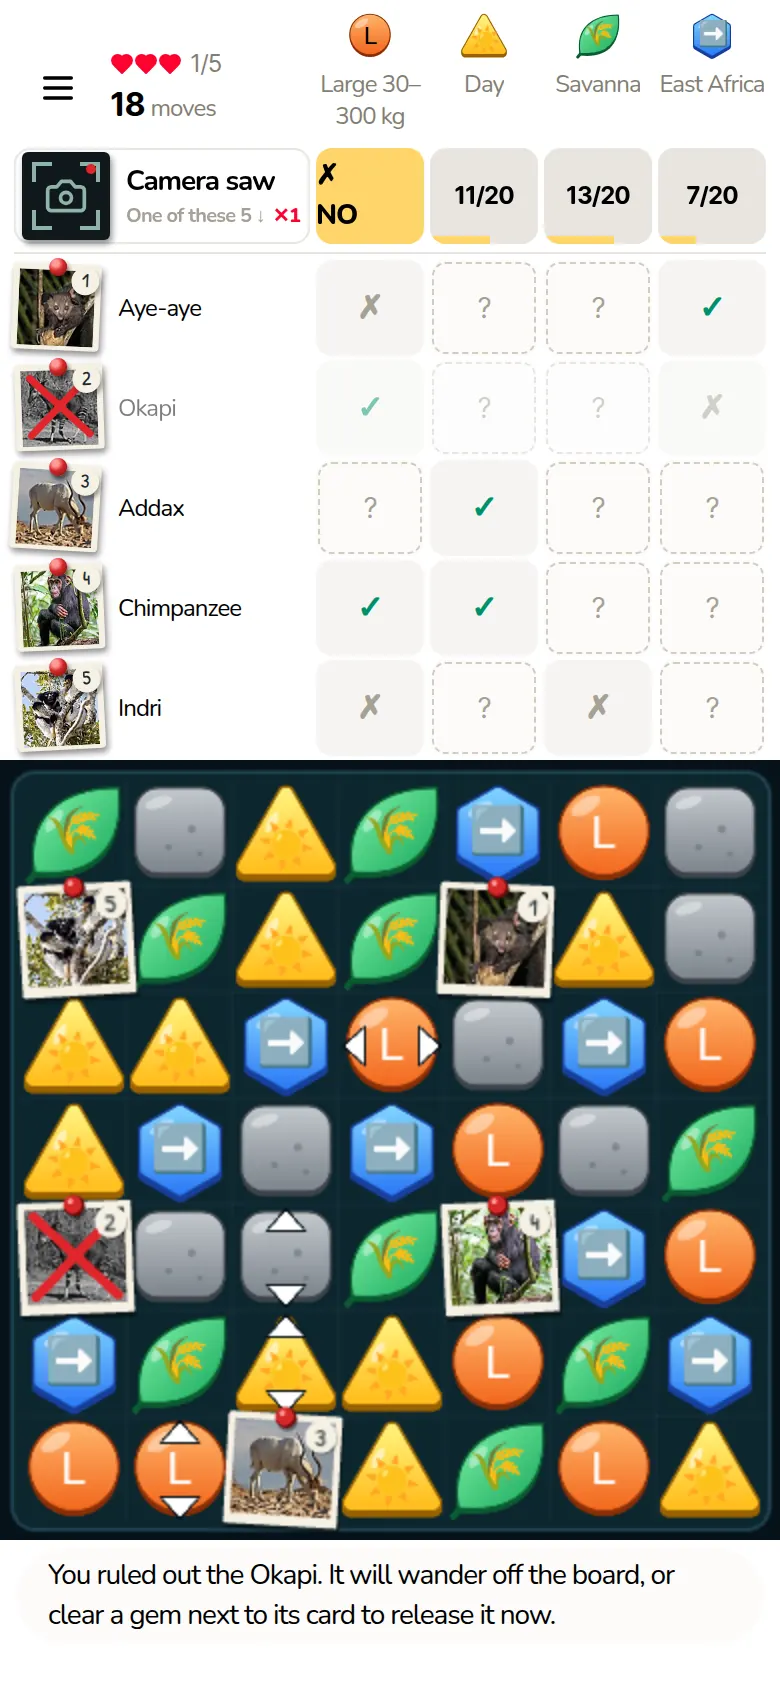
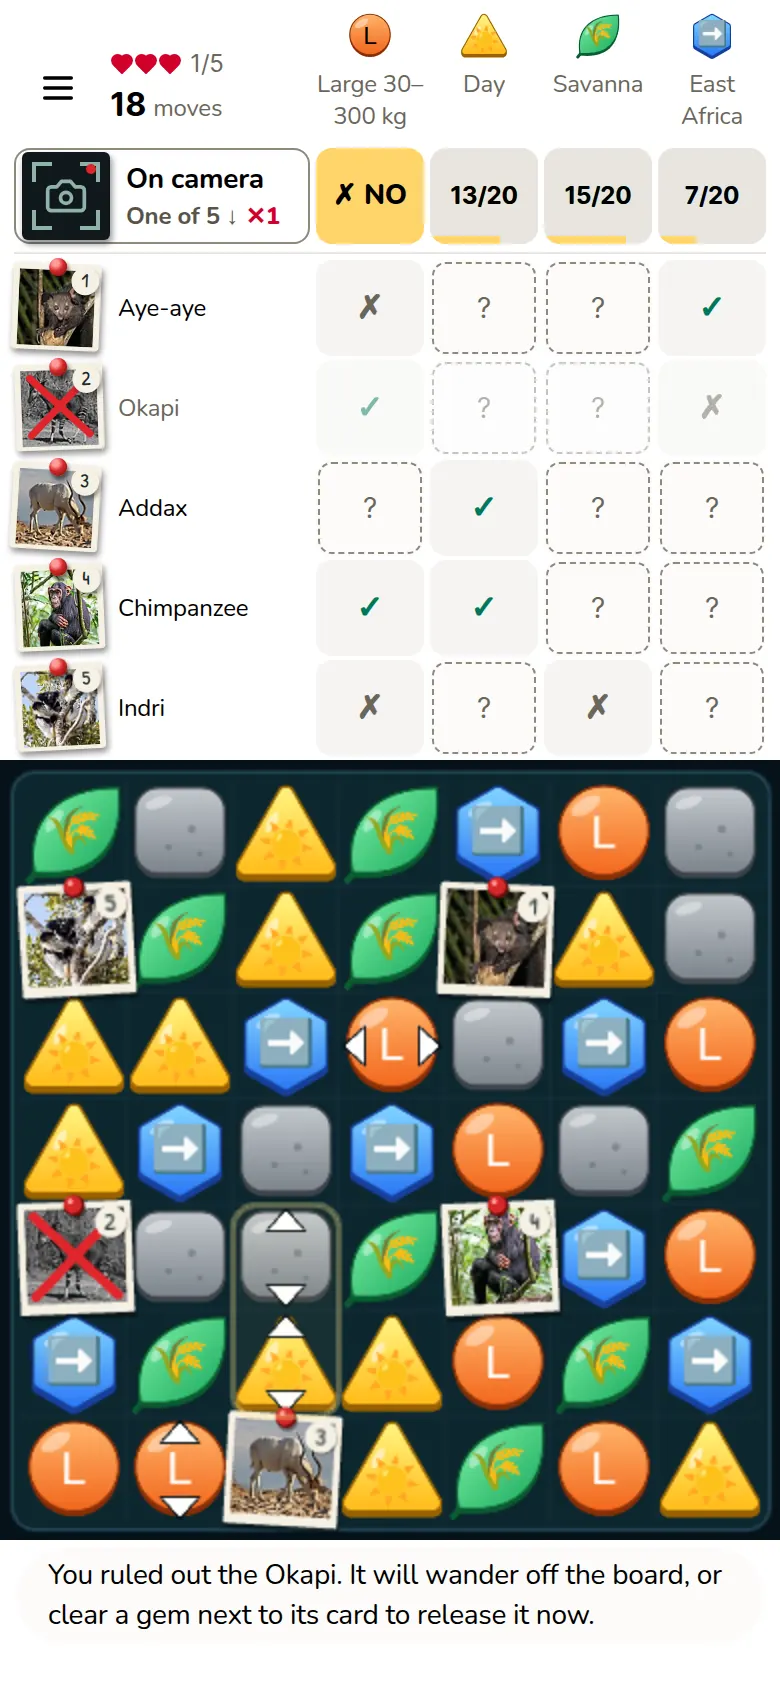
site shots: retake all 10 from 1a781de4
Old shots predate on-camera copy and round end on board. Played 2 rounds, 0 writes.

diff --git a/plans/2026-11-01-site-shots-refresh.md b/plans/2026-11-01-site-shots-refresh.md
@@ -311,7 +311,7 @@ Never `source .env.local`: its URL has an unquoted `&`, so the shell backgrounds
   - `npm run site:shots -- convert`: non-zero (no `play.json`); `git status --short src/site` empty.
   - `python3 -m http.server 3107 -b 127.0.0.1 >/dev/null 2>&1 & H=$!; SHOTS_PORT=3107 npm run site:shots -- start; echo $?; kill $H`: non-zero at once.
   - `git status --short`: only the S1 files; restore anything else (e.g. `tsconfig.json`, `next-env.d.ts`).
-- [ ] S2. **Retake.** Files: `src/site/shots/*.webp`, `src/site/og.png`; `scripts/shots/take.mjs` only if a scripted step needs adapting (Brief's decision rules; record why under **Decisions**). Do:
+- [x] S2. **Retake.** Files: `src/site/shots/*.webp`, `src/site/og.png`; `scripts/shots/take.mjs` only if a scripted step needs adapting (Brief's decision rules; record why under **Decisions**). Do:
   ```
   rm -rf $SHOTS_DIR; mkdir -p $M/shots/old
   # Rows count: "before <n>" into $M/db-counts.txt
@@ -424,5 +424,6 @@ Must show: three 200s, no `OLD`.
 - 2026-11-01 23:49 UTC: Revision. Fable's 2 must-fix and 1 missed resolved (`Teachers.tsx:78` kept, `:120` and `:128` deleted, `Home.tsx:80` reworded); 6 should-consider adopted, 1 in a different form. Lead checked the diff against `Teachers.tsx`. No code changed; typecheck/lint n/a.
 - 2026-11-01 23:55 UTC: Steps. Planner wrote S1-S6 and Verification. Planner printed the live DB password to its tool output while testing a count; H6 added, nothing in git. No code changed; typecheck/lint n/a.
 - 2026-11-02 00:01 UTC: S1. Moved take/convert to `scripts/shots/` with `run.mjs`, `npm run site:shots`; F2 fixes, manifests. typecheck, lint pass; `start` exit 0 (4 shots, commit 1a781de4, pool 2207354486, writes [], all light, no how-to, 3106 free after); `convert` refuses with no play.json, src/site untouched; busy port fails at once. No rounds played.
+- 2026-11-02 00:07 UTC: S2. Retook all 10 shots from 1a781de4 (pool 2207354486), `take.mjs` unchanged. 2 rounds played, 0 API writes, `clue_match_solves` 188 -> 188. typecheck, lint, site:build pass; e2e:site 444/444, 20 screenshots (`e2e-s2`); hash loop: all 10 changed, no MISSING, no STALE. Contact sheet viewed; shot-by-shot eye check is S3.
 
 ## Summary
